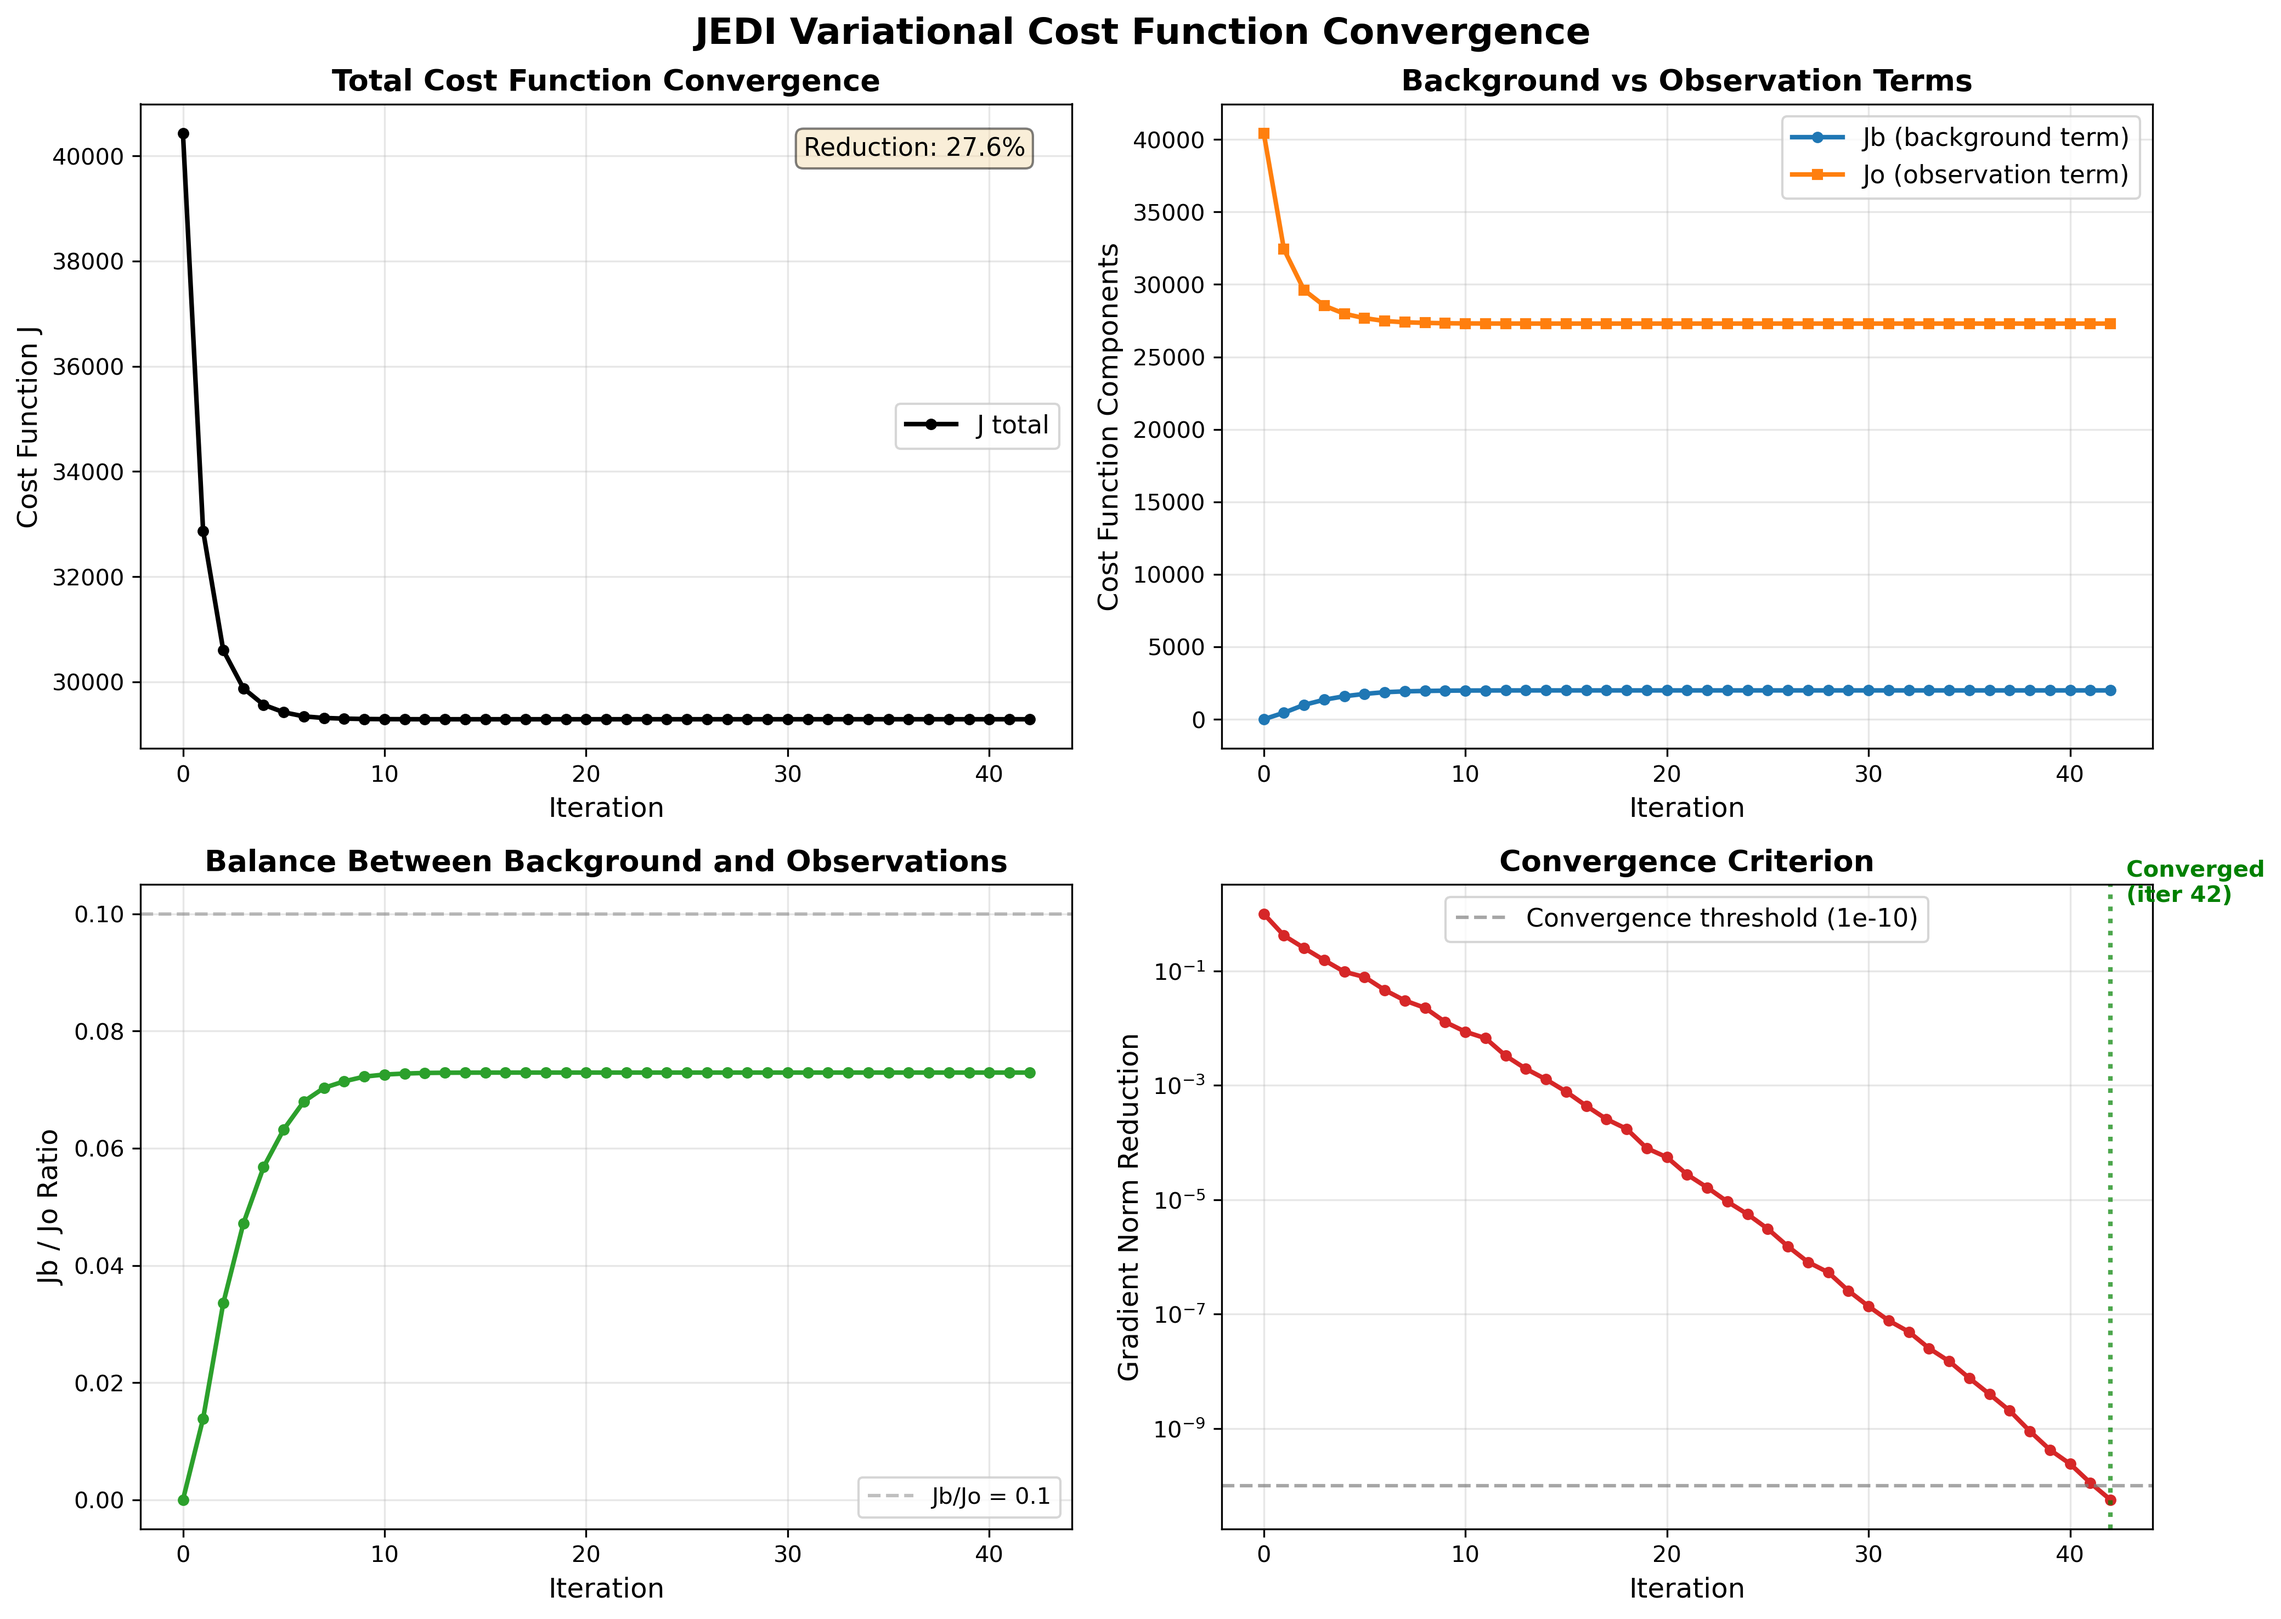
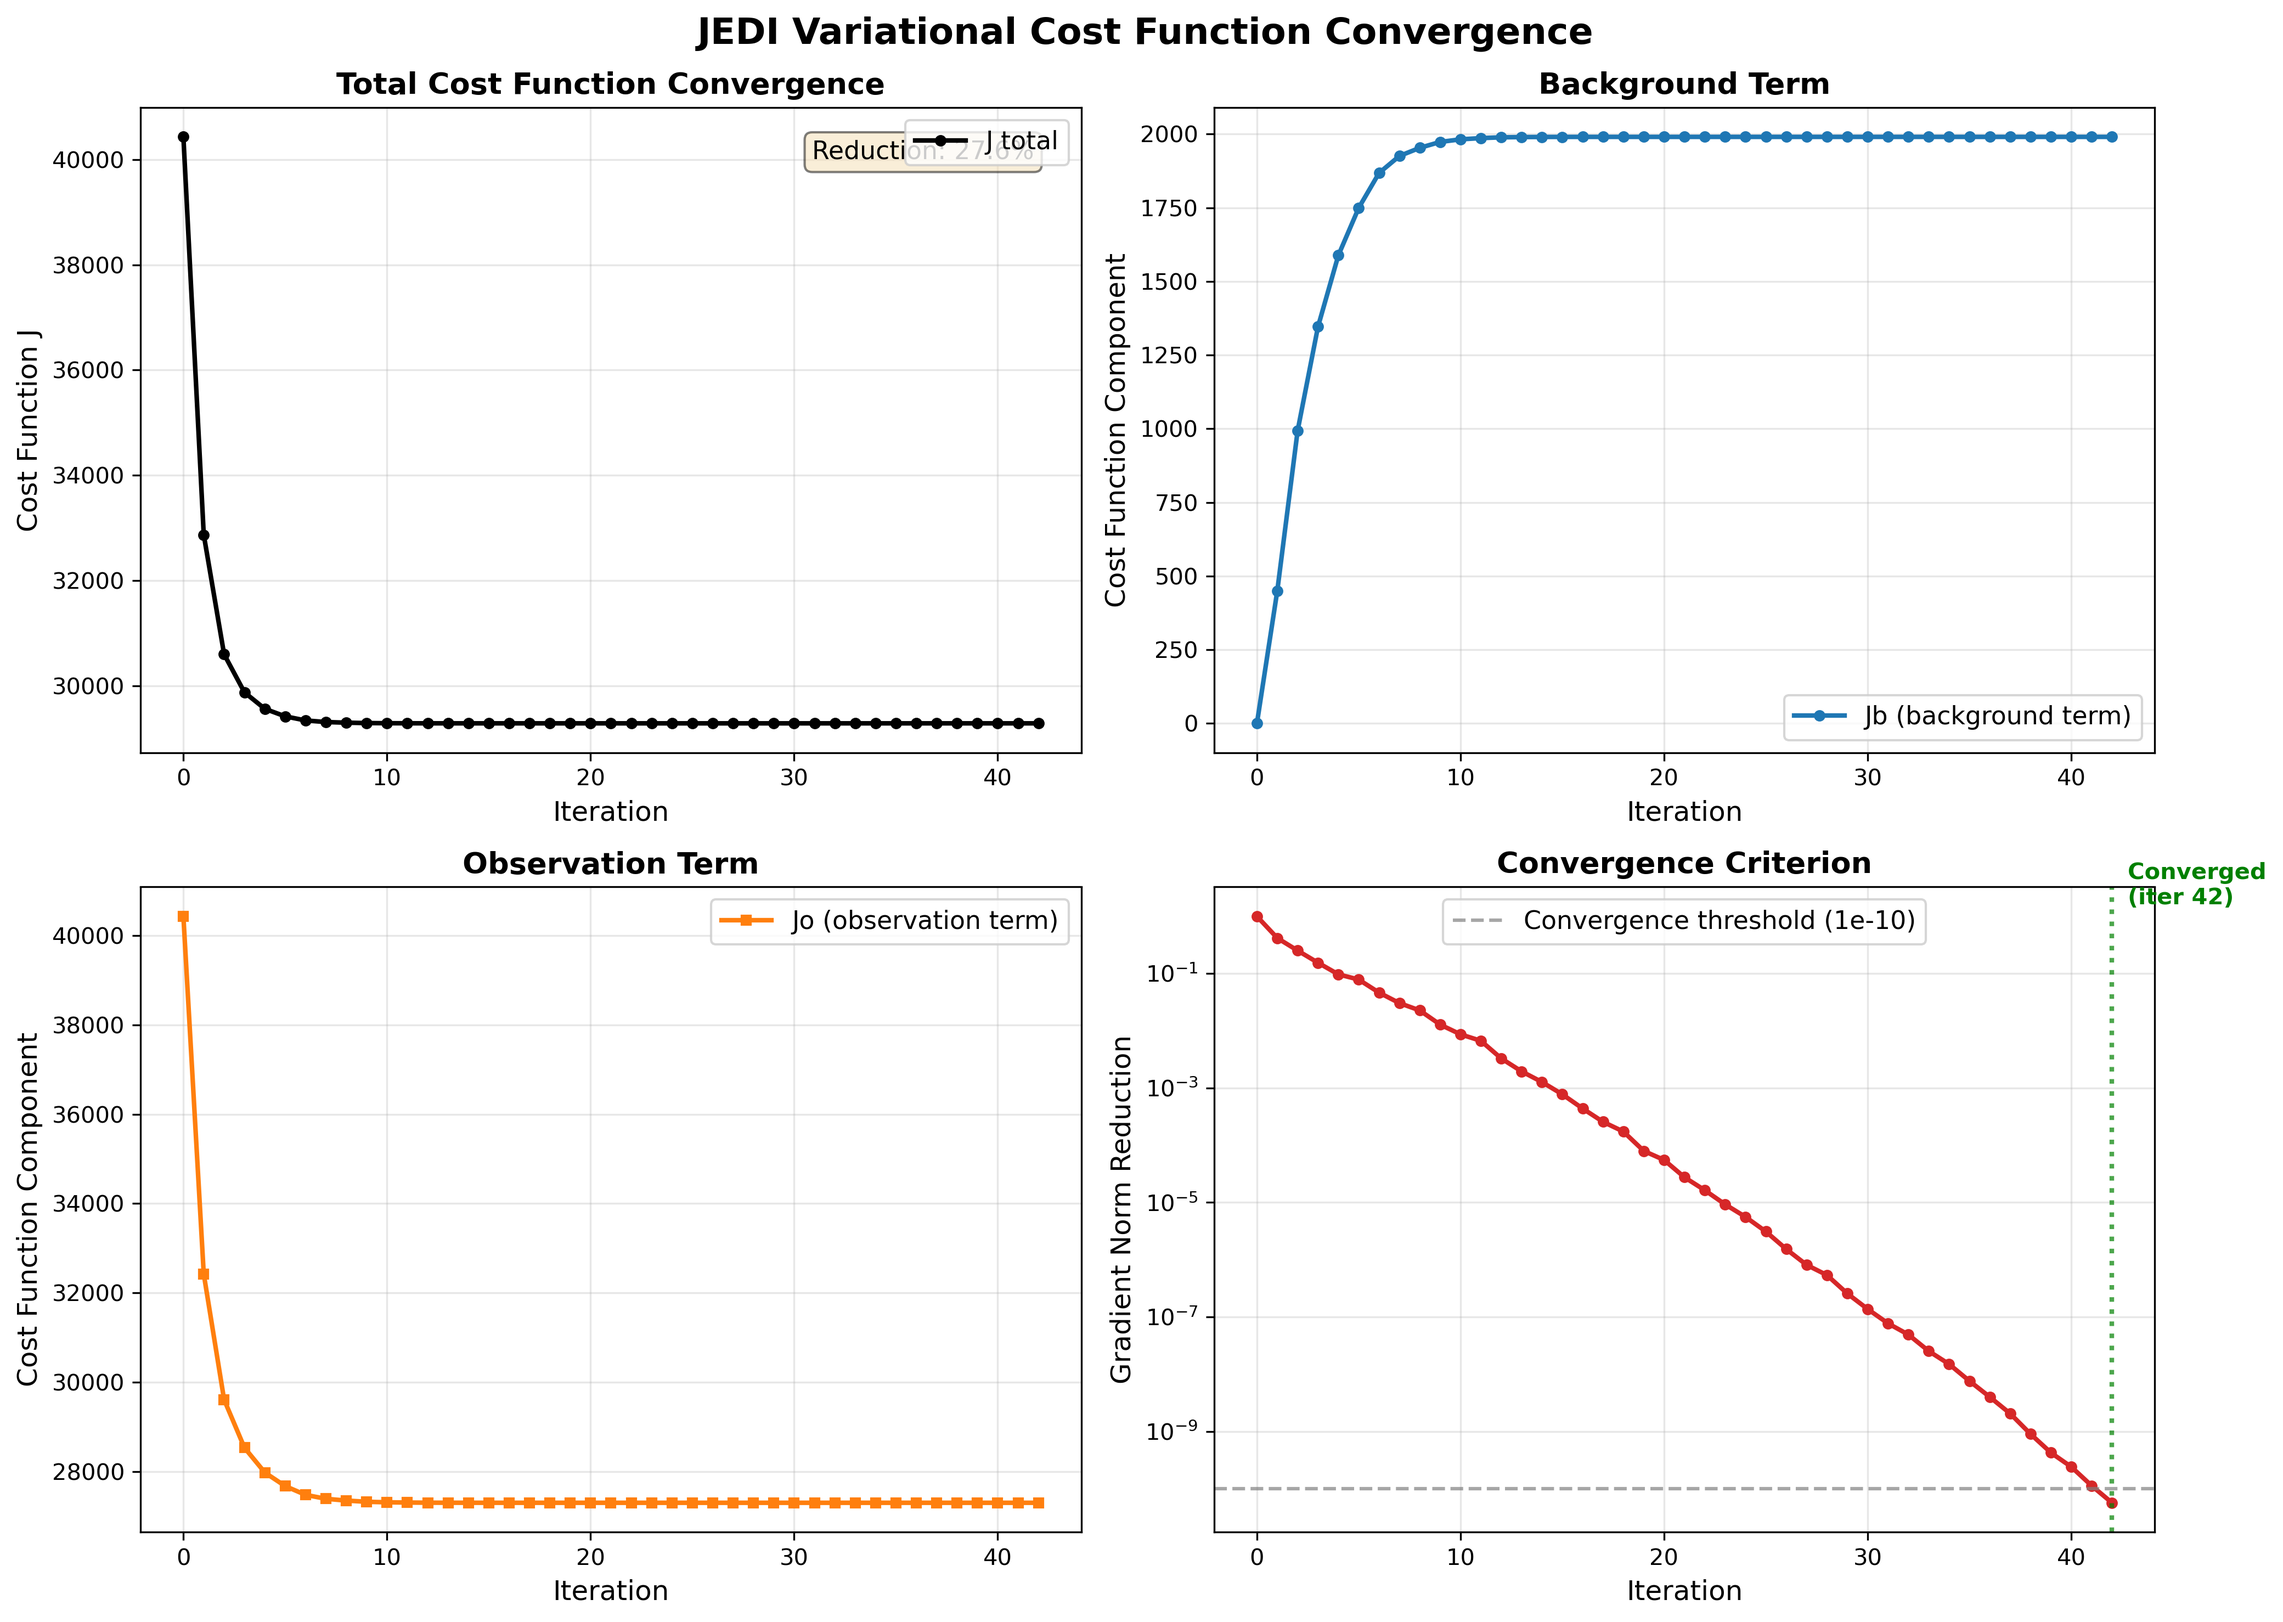
save

diff --git a/jedi_trainings/2026_02/figures/plot_minimization.py b/jedi_trainings/2026_02/figures/plot_minimization.py
@@ -125,25 +125,21 @@ def plot_cost_function_convergence(data, output_file=None):
     ax2 = axes[0, 1]
     ax2.plot(iteration, Jb, 'o-', linewidth=2, markersize=4, 
              color='tab:blue', label='Jb (background term)')
-    ax2.plot(iteration, Jo, 's-', linewidth=2, markersize=4, 
-             color='tab:orange', label='Jo (observation term)')
     ax2.set_xlabel('Iteration', fontsize=12)
-    ax2.set_ylabel('Cost Function Components', fontsize=12)
-    ax2.set_title('Background vs Observation Terms', fontsize=13, fontweight='bold')
+    ax2.set_ylabel('Cost Function Component', fontsize=12)
+    ax2.set_title('Background Term', fontsize=13, fontweight='bold')
     ax2.grid(True, alpha=0.3)
     ax2.legend(fontsize=11)
     
     # Plot 3: Jb/Jo ratio (balance between terms)
     ax3 = axes[1, 0]
-    # Avoid division by zero
-    ratio = np.divide(Jb, Jo, where=Jo!=0, out=np.full_like(Jb, np.nan))
-    ax3.plot(iteration, ratio, 'o-', linewidth=2, markersize=4, color='tab:green')
+    ax3.plot(iteration, Jo, 's-', linewidth=2, markersize=4, 
+             color='tab:orange', label='Jo (observation term)')
     ax3.set_xlabel('Iteration', fontsize=12)
-    ax3.set_ylabel('Jb / Jo Ratio', fontsize=12)
-    ax3.set_title('Balance Between Background and Observations', fontsize=13, fontweight='bold')
+    ax3.set_ylabel('Cost Function Component', fontsize=12)
+    ax3.set_title('Observation Term', fontsize=13, fontweight='bold')
     ax3.grid(True, alpha=0.3)
-    ax3.axhline(y=0.1, color='gray', linestyle='--', alpha=0.5, label='Jb/Jo = 0.1')
-    ax3.legend(fontsize=10)
+    ax3.legend(fontsize=11)
     
     # Plot 4: Gradient norm reduction (log scale)
     ax4 = axes[1, 1]
